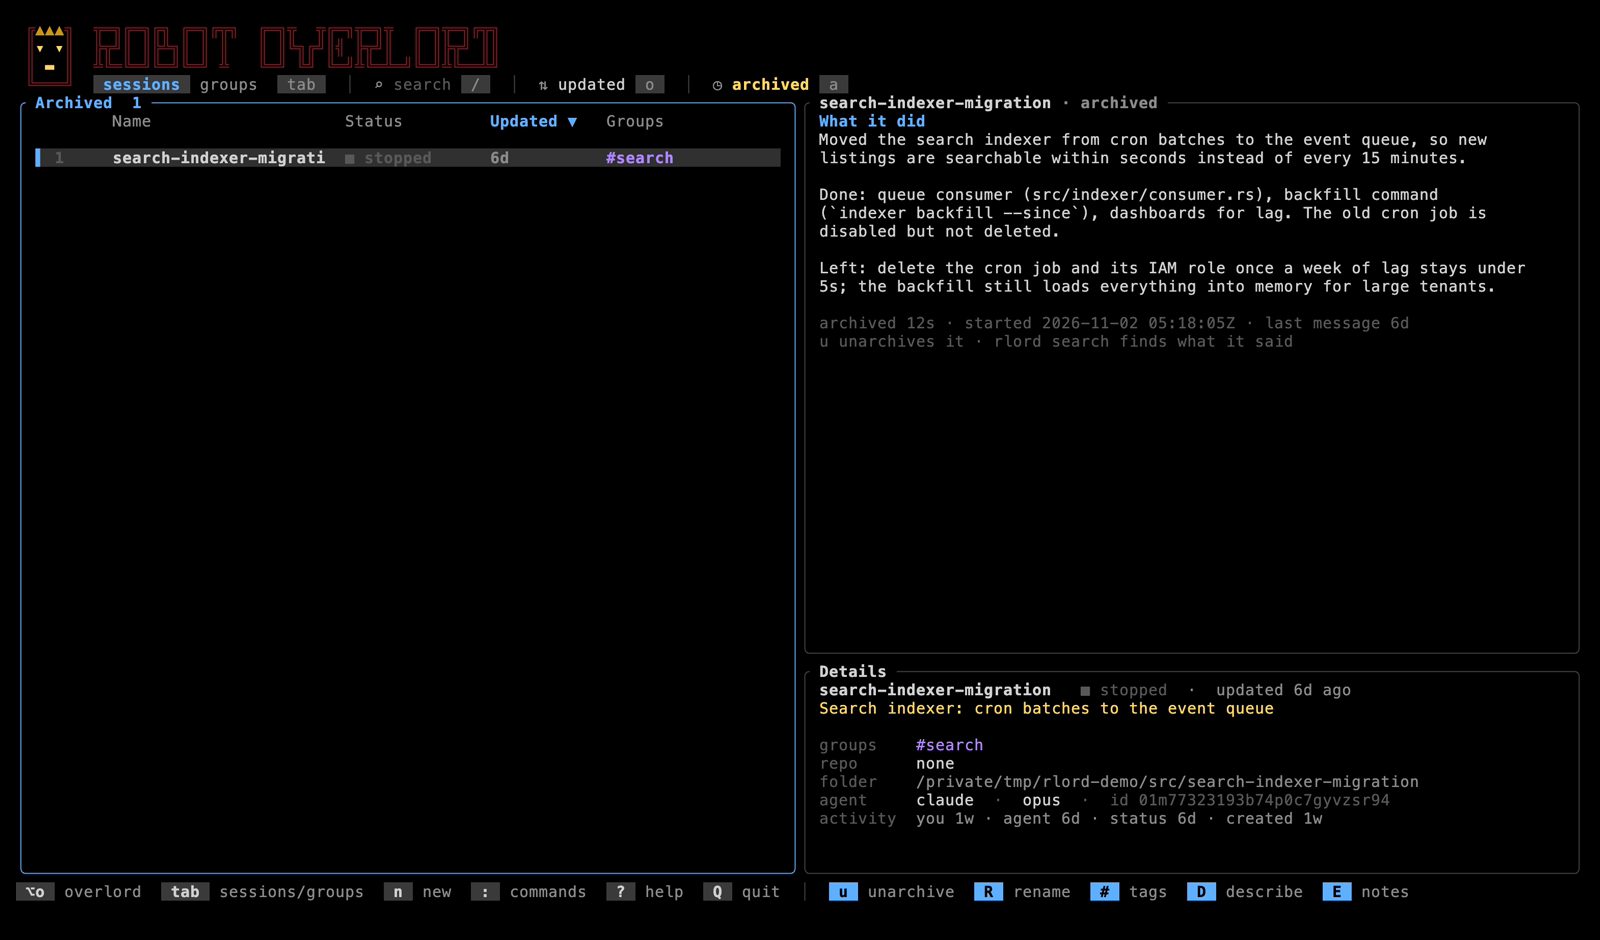
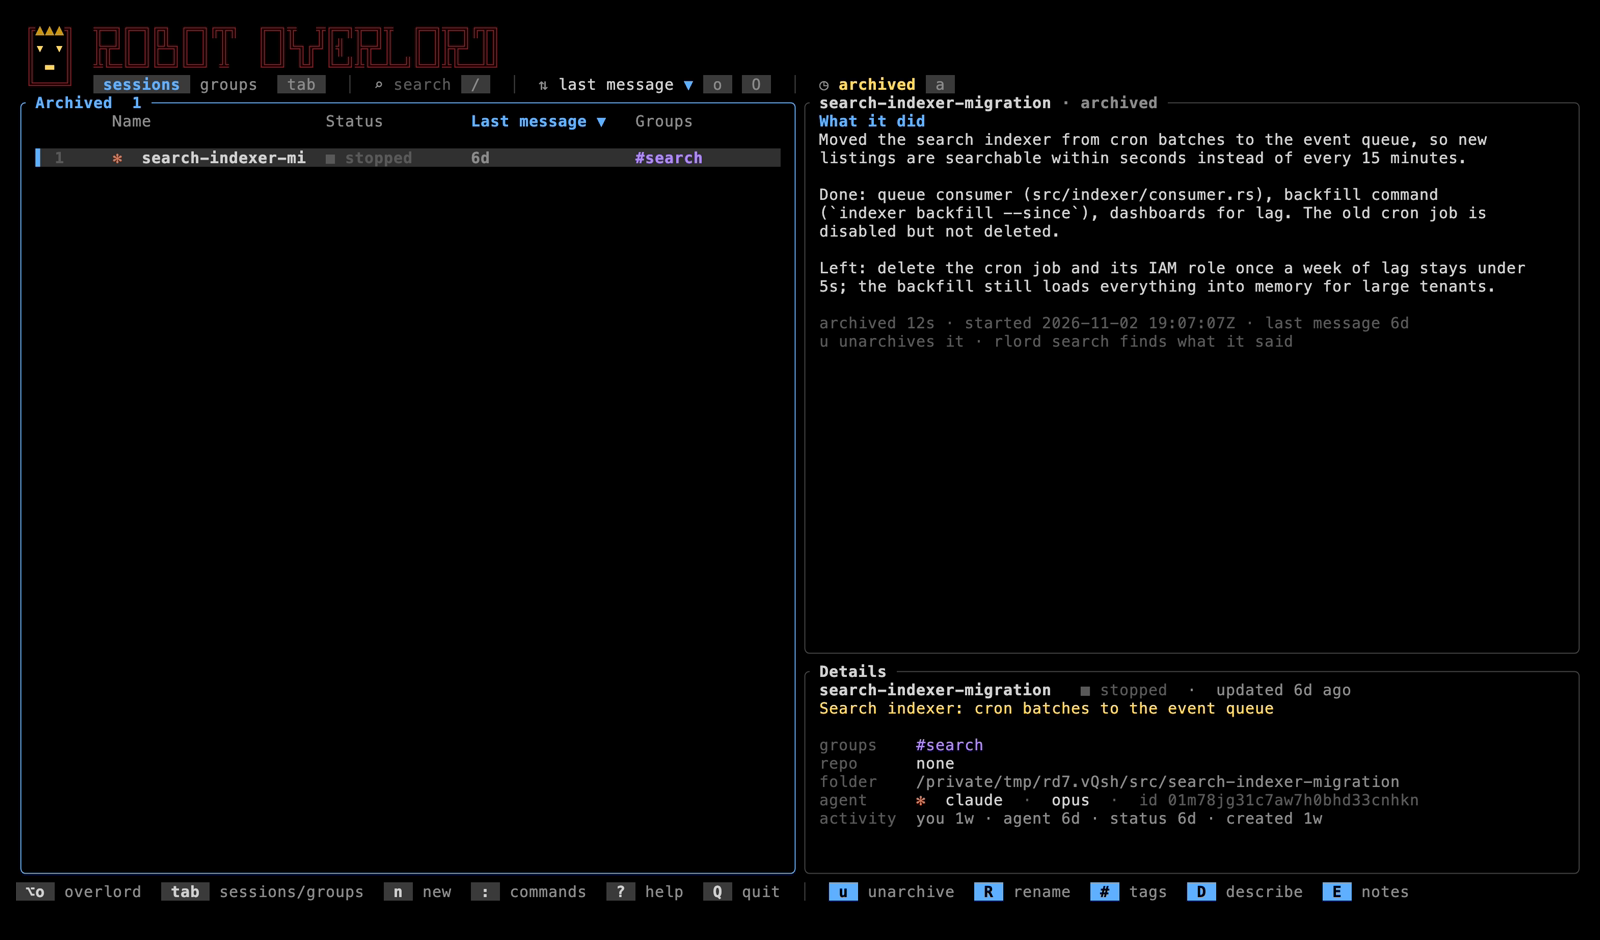
README: new tagline, AI-first session management; retaken screenshots; demo panes find tmux
Claude-Session: https://claude.ai/code/session_01FbNBpvn9vQnbzPcQogYHjn

diff --git a/README.md b/README.md
@@ -4,7 +4,7 @@
 
 # Robot Overlord
 
-**Run a fleet of AI coding agents from one place, and talk to it.**
+**Manage your AI coding agents with AI.**
 
 `rlord` keeps every AI coding session you have (Claude Code, Codex,
 OpenCode) running in tmux, in one list you can sort, search and organize,
@@ -22,10 +22,13 @@ Starting AI coding sessions is easy. Keeping track of ten of them isn't:
 which one was fixing the login bug, which is waiting on you, what did that
 session from last week decide? rlord is built around a few ideas:
 
-- **Talk to it.** Most of the time you don't press keys to manage sessions,
-  you ask: *"start a session on the flaky login tests"*, *"what's waiting on
-  me?"*, *"tag everything about billing"*, *"we fixed this before, find it"*.
-  The overlord does it.
+- **AI manages your AI sessions.** Organizing, tagging, describing and
+  digging through dozens of agent sessions is tedious work, and it's
+  exactly the kind of work AI is good at. So rlord is built around the
+  overlord first: *"start a session on the flaky login tests"*, *"what's
+  waiting on me?"*, *"tag everything about billing"*, *"we fixed this
+  before, find it"*. The keys and the list are still there when you want
+  them.
 - **Plain code does the bookkeeping.** Tracking, sorting, searching and
   organizing are ordinary, fast code. The AI is spent where it earns its
   cost, not on every keypress.
